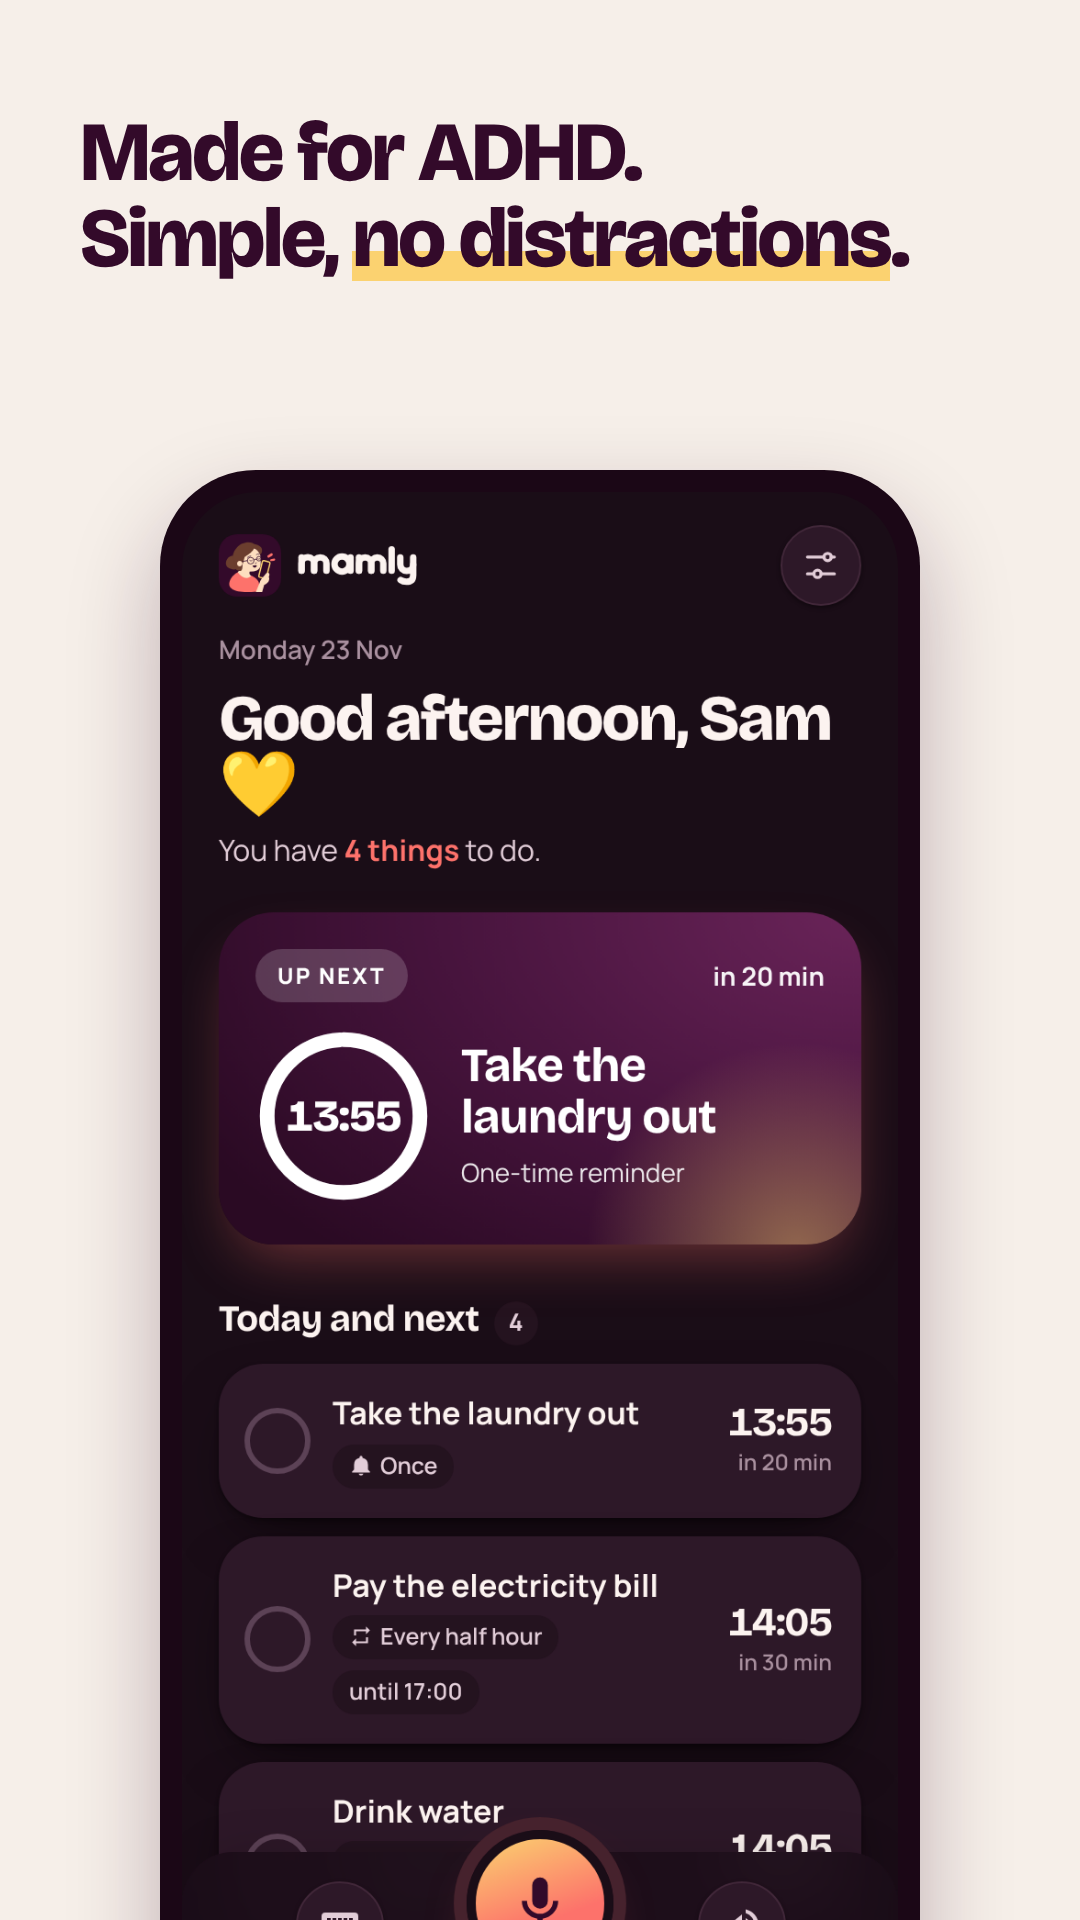
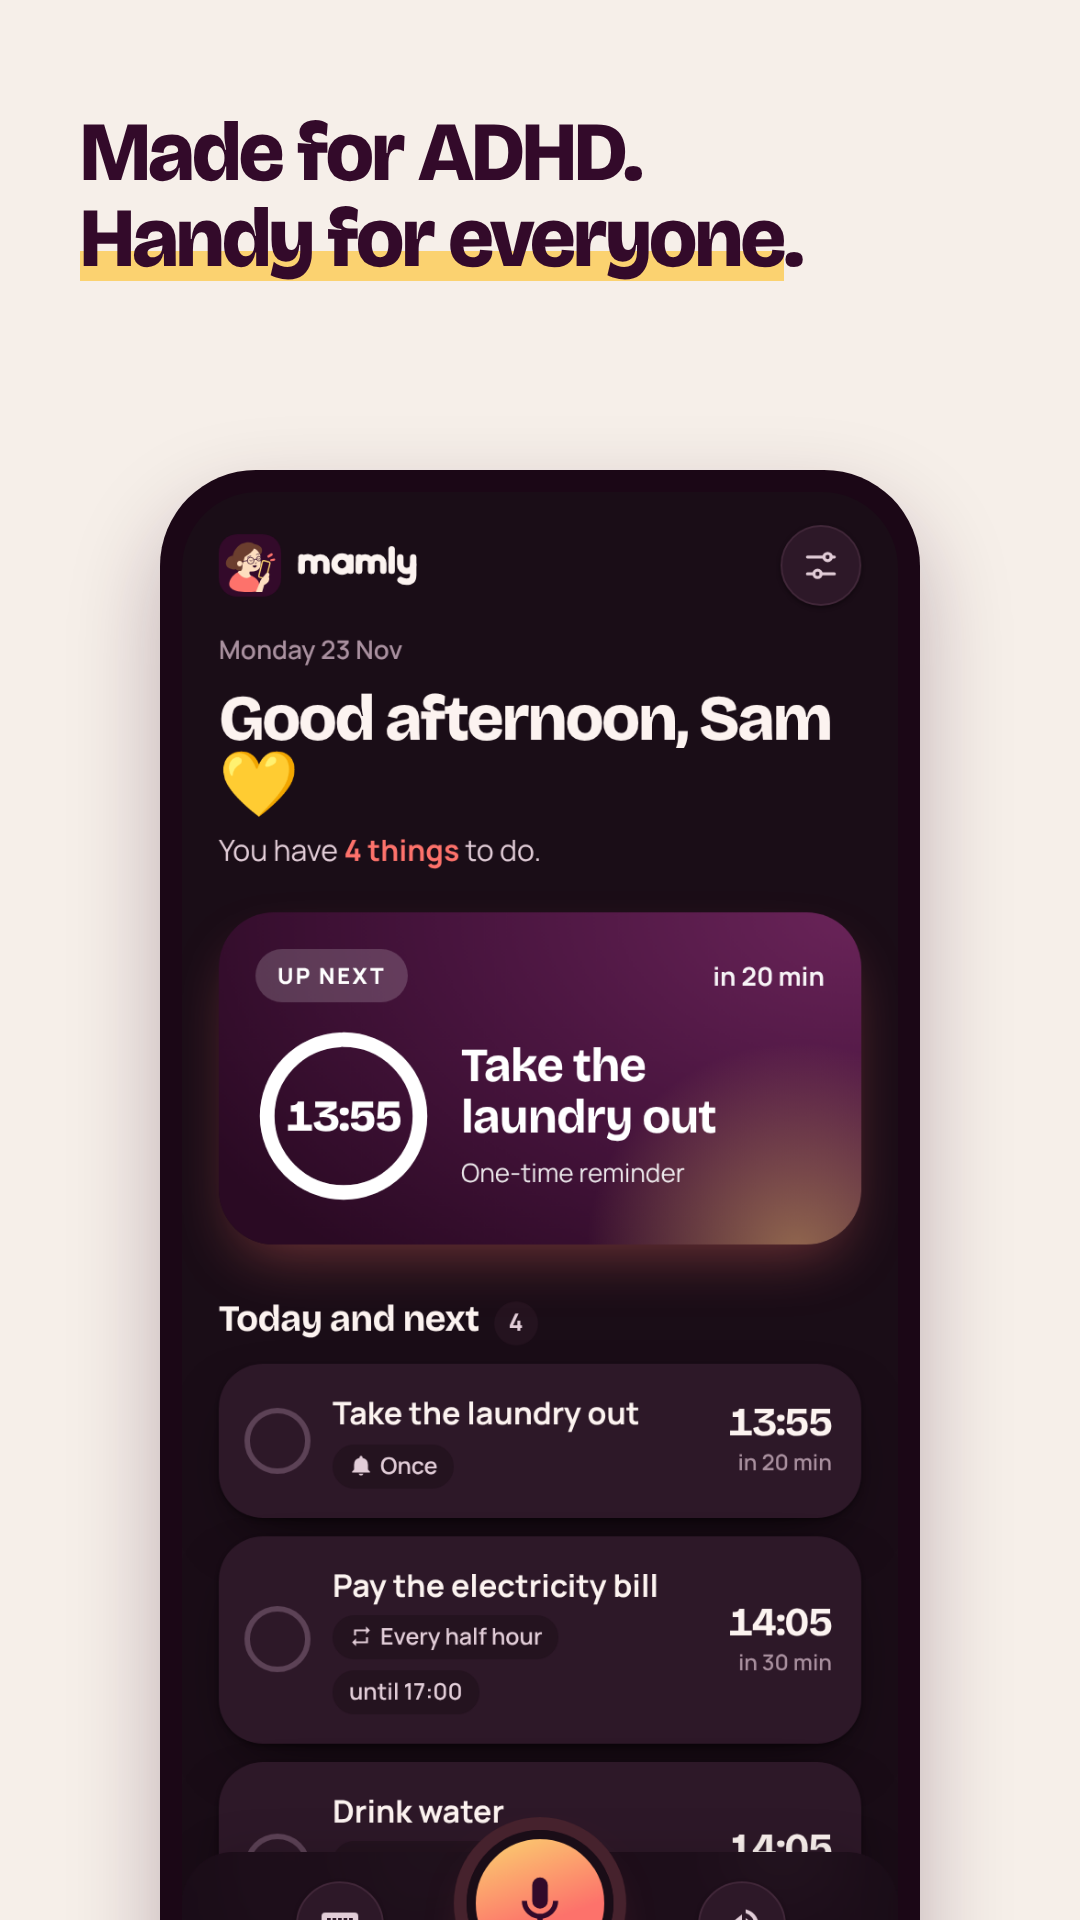
Messaging: made for ADHD, handy for everyone
Site badge, meta descriptions and a new FAQ (PT/EN), Play Store short and
full descriptions, store screenshot 5 and the Instagram bio/captions now say
Mamly is designed for ADHD but useful for anyone juggling many things.

Claude-Session: https://claude.ai/code/session_01Vz2moDb866Xe6U8hfWhM98

Changed region(s): [[0.0611, 0.0938, 0.8556, 0.1562]]

diff --git a/site/index.html b/site/index.html
@@ -4,7 +4,7 @@
   <meta charset="utf-8">
   <meta name="viewport" content="width=device-width, initial-scale=1, viewport-fit=cover">
   <title>Mamly — a mãe que te lembra de tudo, em voz alta</title>
-  <meta name="description" content="Diz o que tens de fazer e o Mamly lembra-te em voz alta à hora certa, mesmo com o telemóvel bloqueado. Lembretes falados, feitos a pensar em quem tem PHDA.">
+  <meta name="description" content="Diz o que tens de fazer e o Mamly lembra-te em voz alta à hora certa, mesmo com o telemóvel bloqueado. Lembretes falados, pensados para quem tem PHDA e úteis para toda a gente que anda com mil coisas na cabeça.">
   <meta name="theme-color" content="#FCFBF6" media="(prefers-color-scheme: light)">
   <meta name="theme-color" content="#1A0D17" media="(prefers-color-scheme: dark)">
   <link rel="icon" href="app/icon.svg" type="image/svg+xml">
@@ -49,7 +49,7 @@
     <!-- início -->
     <section class="hero">
       <div class="hero-text">
-        <p class="badge"><span class="badge-dot" aria-hidden="true">💛</span><span>Feito a pensar em quem tem <b>PHDA</b></span></p>
+        <p class="badge"><span class="badge-dot" aria-hidden="true">💛</span><span>Pensado para <b>PHDA</b>. Útil para toda a gente.</span></p>
         <h1>A mãe que te lembra de tudo.<br><span class="hl">Em voz alta.</span></h1>
         <p class="lead">Dizes o que tens de fazer. O Mamly lembra-te à hora certa, em voz alta, e insiste até fazeres. Mesmo com o telemóvel bloqueado no bolso.</p>
         <div class="cta" id="instalar">
@@ -151,6 +151,7 @@
     <!-- perguntas -->
     <section id="perguntas" class="faq">
       <h2>Perguntas frequentes</h2>
+      <details><summary>É só para quem tem PHDA?</summary><p>Não. O Mamly foi pensado para cabeças com PHDA, mas serve a qualquer pessoa que ande com mil coisas na cabeça: pais e mães, estudantes, quem trabalha por turnos, quem toma medicação a horas, ou simplesmente quem se esquece das coisas.</p></details>
       <details><summary>O Mamly é grátis?</summary><p>Sim, é grátis e sem subscrições.</p></details>
       <details><summary>Funciona no iPhone?</summary><p>Por agora a app é só para Android. No iPhone podes usar a <a href="app/">versão web</a>, mas aí os avisos só tocam com a página aberta.</p></details>
       <details><summary>O que acontece aos meus dados?</summary><p>Os lembretes ficam guardados só no teu telemóvel. Não há contas nem servidores do Mamly. Quando falas para o microfone, o áudio é transformado em texto pelo serviço de voz do Android (normalmente da Google). Lê a <a href="privacidade.html">política de privacidade</a>.</p></details>

diff --git a/site/en/index.html b/site/en/index.html
@@ -4,7 +4,7 @@
   <meta charset="utf-8">
   <meta name="viewport" content="width=device-width, initial-scale=1, viewport-fit=cover">
   <title>Mamly — the mom who reminds you of everything, out loud</title>
-  <meta name="description" content="Say what you need to do and Mamly reminds you out loud at the right time, even with your phone locked. Spoken reminders, built for people with ADHD.">
+  <meta name="description" content="Say what you need to do and Mamly reminds you out loud at the right time, even with your phone locked. Spoken reminders, made for people with ADHD and handy for anyone juggling a million things.">
   <meta name="theme-color" content="#FCFBF6" media="(prefers-color-scheme: light)">
   <meta name="theme-color" content="#1A0D17" media="(prefers-color-scheme: dark)">
   <link rel="icon" href="../app/icon.svg" type="image/svg+xml">
@@ -40,7 +40,7 @@
   <main id="top">
     <section class="hero">
       <div class="hero-text">
-        <p class="badge"><span class="badge-dot" aria-hidden="true">💛</span><span>Built for people with <b>ADHD</b></span></p>
+        <p class="badge"><span class="badge-dot" aria-hidden="true">💛</span><span>Made for <b>ADHD</b>. Handy for everyone.</span></p>
         <h1>The mom who reminds you of everything.<br><span class="hl">Out loud.</span></h1>
         <p class="lead">Tell it what you need to do. Mamly reminds you out loud, right on time, and keeps at it until it's done. Even with your phone locked in your pocket.</p>
         <div class="cta" id="install">
@@ -136,6 +136,7 @@
 
     <section id="faq" class="faq">
       <h2>Frequently asked questions</h2>
+      <details><summary>Is it only for people with ADHD?</summary><p>No. Mamly was designed for ADHD brains, but it works for anyone with a million things on their mind: parents, students, shift workers, people who take medication on time, or anyone who simply forgets things.</p></details>
       <details><summary>Is Mamly free?</summary><p>Yes, it’s free, with no subscriptions.</p></details>
       <details><summary>Does it work on iPhone?</summary><p>For now the app is Android only. On iPhone you can use the <a href="../app/">web version</a>, but reminders only ring while the page is open.</p></details>
       <details><summary>What happens to my data?</summary><p>Your reminders are stored only on your phone. There are no Mamly accounts or servers. When you speak into the microphone, the audio is turned into text by Android's speech service (usually Google's). Read the <a href="privacy.html">privacy policy</a>.</p></details>

diff --git a/store/gen.js b/store/gen.js
@@ -21,7 +21,7 @@ const T = {
       ['ecra-aviso', 'Toca à hora certa,', 'mesmo com o <span class="hl">ecrã desligado</span>.'],
       ['ecra-modo-mae', 'Modo mãe:', 'a voz <span class="hl">carinhosa</span> da mãe.'],
       ['ecra-partilha', 'Partilha lembretes', 'com <span class="hl">quem gostas</span>.'],
-      ['ecra-escuro', 'Pensado para PHDA.', 'Simples, <span class="hl">sem distrações</span>.'],
+      ['ecra-escuro', 'Pensado para PHDA.', '<span class="hl">Útil para toda a gente</span>.'],
     ],
   },
   en: {
@@ -33,7 +33,7 @@ const T = {
       ['ecra-aviso', 'Rings right on time,', 'even with the <span class="hl">screen off</span>.'],
       ['ecra-modo-mae', 'Mom mode:', 'a <span class="hl">caring</span>, motherly voice.'],
       ['ecra-partilha', 'Share reminders', 'with the <span class="hl">people you love</span>.'],
-      ['ecra-escuro', 'Made for ADHD.', 'Simple, <span class="hl">no distractions</span>.'],
+      ['ecra-escuro', 'Made for ADHD.', '<span class="hl">Handy for everyone</span>.'],
     ],
   },
 };

diff --git a/store/FICHA-PLAY-STORE.md b/store/FICHA-PLAY-STORE.md
@@ -25,13 +25,13 @@ Para gerar as imagens outra vez: `node store/gen.js`
 **Nome:** Mamly – Lembretes por voz
 
 **Descrição breve** (máx. 80 carateres)
-> Lembretes falados para quem tem PHDA. Diz, e ela lembra-te em voz alta.
+> Lembretes falados que insistem. Pensado para PHDA, útil para toda a gente.
 
 **Descrição completa**
 ```
 O Mamly é a mãe que te lembra de tudo. Em voz alta.
 
-Esqueces-te das coisas assim que pousas o telemóvel? O Mamly foi pensado para cabeças com PHDA: dizes o que tens de fazer, como dirias a alguém, e ele avisa-te em voz alta à hora certa, mesmo com o ecrã bloqueado.
+Esqueces-te das coisas assim que pousas o telemóvel? O Mamly foi pensado para cabeças com PHDA, mas é útil para qualquer pessoa que ande com mil coisas na cabeça: dizes o que tens de fazer, como dirias a alguém, e ele avisa-te em voz alta à hora certa, mesmo com o ecrã bloqueado.
 
 🗣 DIZ, NÃO ESCREVAS
 Carrega no microfone e fala naturalmente:
@@ -74,13 +74,13 @@ Para adicionar: Ficha da loja principal → **Gerir traduções** → Adicionar 
 **Name:** Mamly – Voice reminders
 
 **Short description**
-> Spoken reminders for ADHD brains. Say it, and she'll remind you out loud.
+> Spoken reminders that keep at it. Made for ADHD, handy for everyone.
 
 **Full description**
 ```
 Mamly is the mom who reminds you of everything. Out loud.
 
-Forget things the moment you put your phone down? Mamly was made for ADHD brains: just say what you need to do, the way you'd tell a friend, and it reminds you out loud right on time, even when your phone is locked.
+Forget things the moment you put your phone down? Mamly was made for ADHD brains, but it helps anyone juggling a million things: just say what you need to do, the way you'd tell a friend, and it reminds you out loud right on time, even when your phone is locked.
 
 🗣 SAY IT, DON'T TYPE IT
 Tap the mic and talk naturally:

diff --git a/store/INSTAGRAM.md b/store/INSTAGRAM.md
@@ -5,18 +5,18 @@
 **Nome:** Mamly · Lembretes por voz
 (O nome aparece nas pesquisas. Com "Lembretes por voz", quem procurar "lembretes" encontra a conta.)
 
-**Bio bilingue** (135 de 150 carateres)
+**Bio bilingue** (cerca de 140 de 150 carateres)
 ```
 🇵🇹 A mãe que te lembra de tudo. Em voz alta.
 🇬🇧 The mom who reminds you of everything. Out loud.
-🧠 PHDA · ADHD 💛
-👇 Experimenta / Try it
+🧠 PHDA · ADHD · para todos · for all 💛
+👇
 ```
 
 Alternativa só em português:
 ```
 A mãe que te lembra de tudo. Em voz alta. 💛
-Lembretes falados para cabeças com PHDA 🧠
+Lembretes falados. Pensado para PHDA, útil para todos 🧠
 Feito em Portugal 🇵🇹
 👇 Experimenta
 ```
@@ -130,6 +130,8 @@ O Mamly foi pensado para isso:
 🔁 Insiste até fazeres, sem culpas
 🔒 Sem contas e sem anúncios: tudo fica no teu telemóvel
 
+E se não tens PHDA mas andas com mil coisas na cabeça? Também é para ti 💛
+
 Guarda este post (se te lembrares 😅).
 
 🇬🇧
@@ -141,6 +143,8 @@ Mamly was made for exactly this:
 🗣 Talk instead of typing, zero friction
 🔁 It nudges until you do it, no guilt
 🔒 No accounts, no ads: everything stays on your phone
+
+No ADHD but a million things on your mind? It's for you too 💛
 
 Save this post (if you remember 😅).
 
